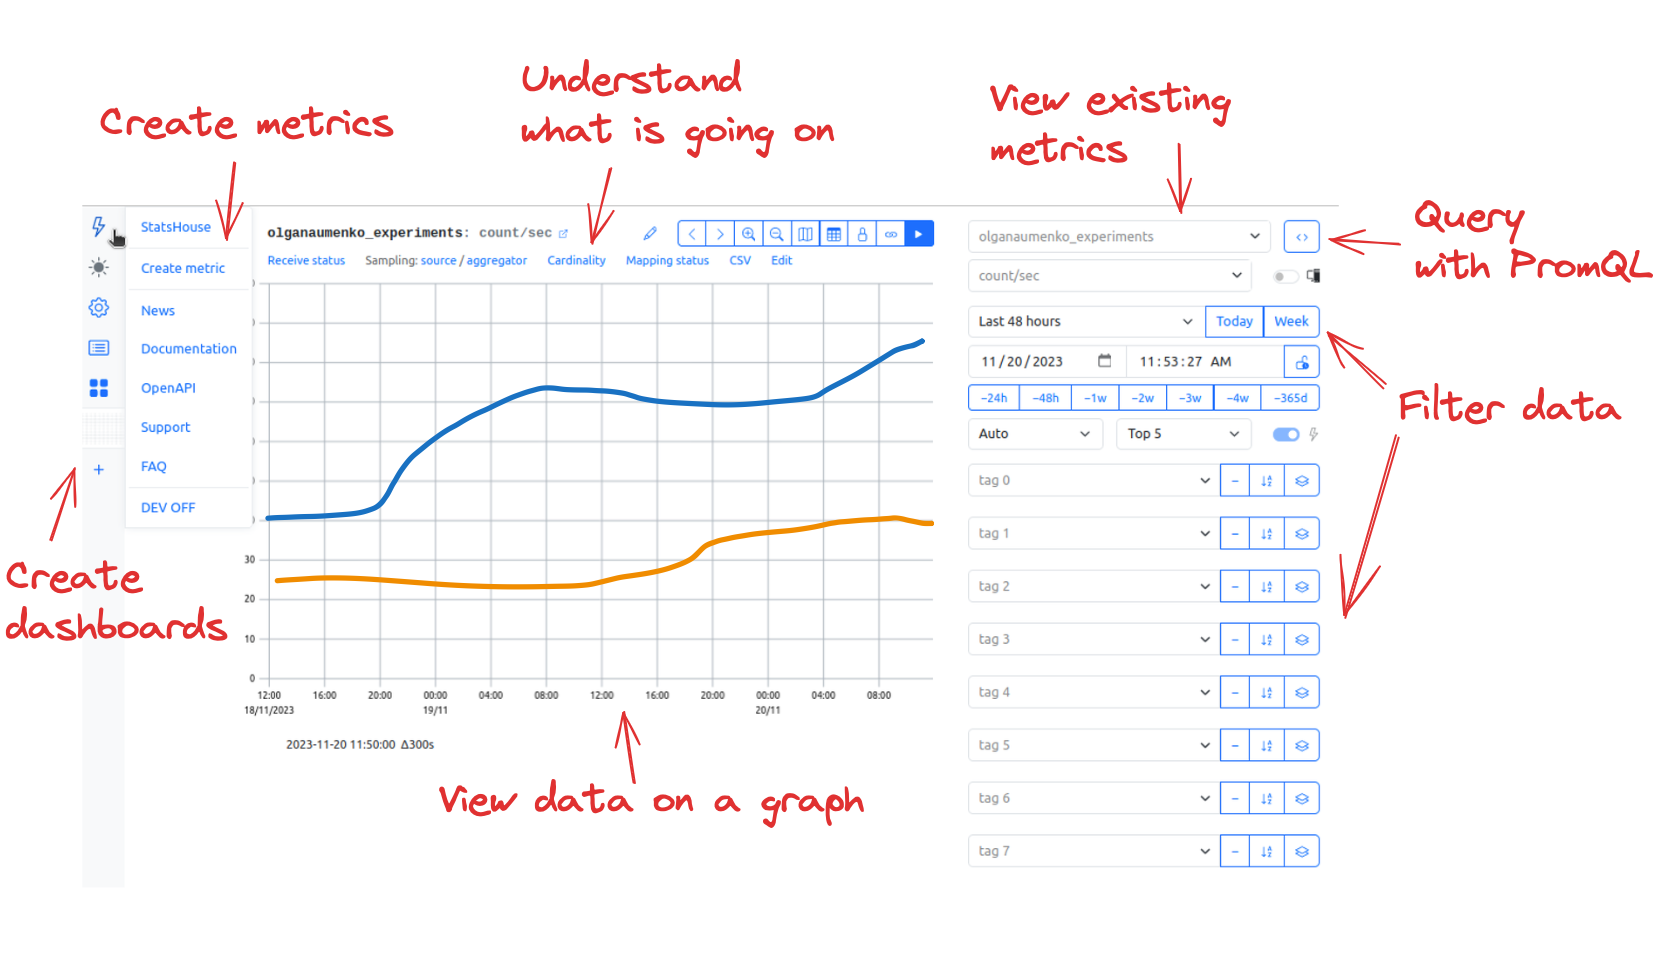
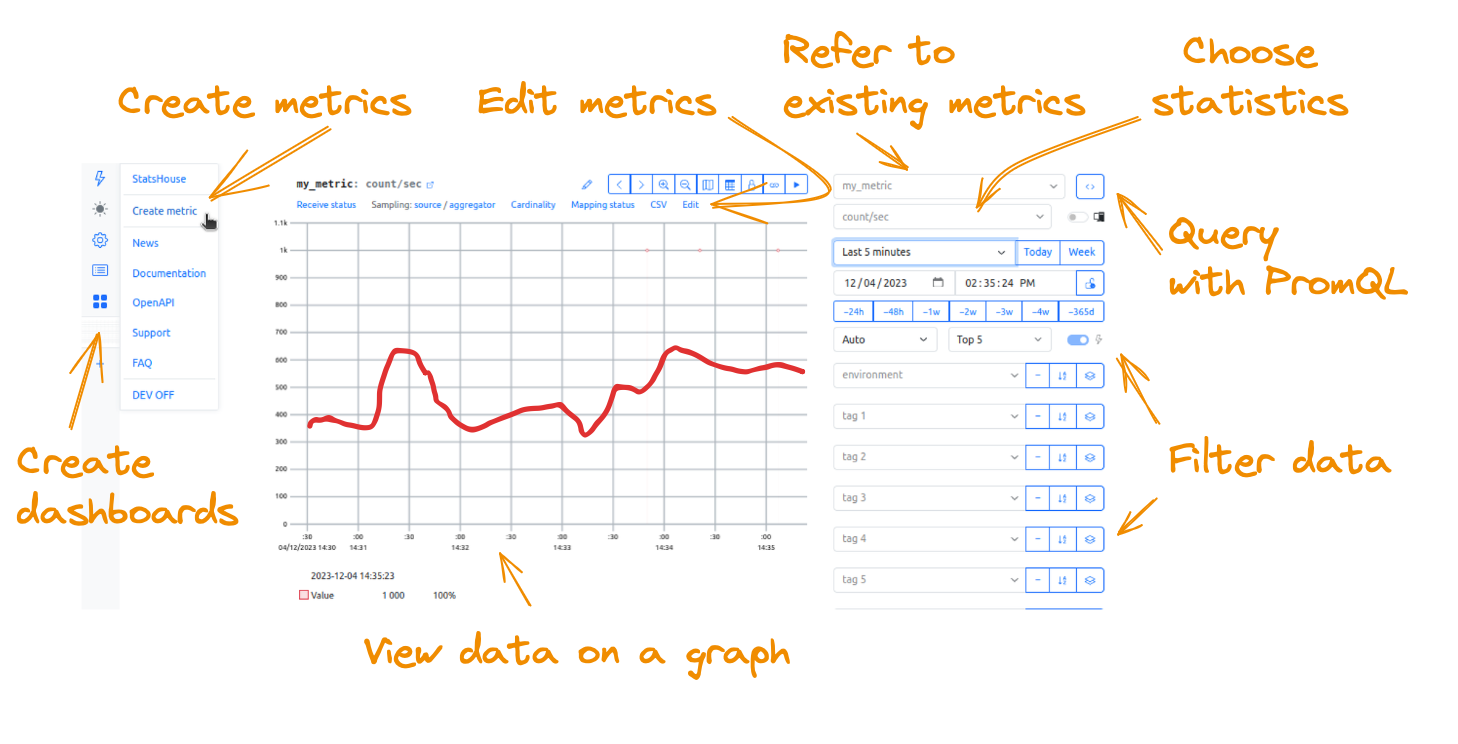
Added 'What is SH' section

diff --git a/website/docusaurus.config.js b/website/docusaurus.config.js
@@ -16,7 +16,7 @@ const config = {
   url: 'https://github.com',
   // Set the /<baseUrl>/ pathname under which your site is served
   // For GitHub pages deployment, it is often '/<projectName>/'
-  baseUrl: '/statshouse/',
+  baseUrl: '/statshouse',
 
   // GitHub pages deployment config.
   // If you aren't using GitHub pages, you don't need these.
@@ -75,18 +75,18 @@ const config = {
       // Replace with your project's social card
       image: 'img/docusaurus-social-card.jpg',
       navbar: {
-        title: 'StatsHouse',
+        title: 'StatsHouse Docs',
         logo: {
           alt: 'StatsHouse Logo',
-          src: 'img/statshouse.jpeg',
+          src: '/img/statshouse.jpeg',
         },
         items: [
-          {
-            type: 'docSidebar',
-            sidebarId: 'tutorialSidebar',
-            position: 'left',
-            label: 'Documentation',
-          },
+//          {
+//            type: 'docSidebar',
+//            sidebarId: 'tutorialSidebar',
+//            position: 'left',
+//            label: 'Documentation',
+//          },
 //          {to: '/blog', label: 'Blog', position: 'left'},
           {
             href: 'https://github.com/VKCOM/statshouse',

diff --git a/website/docs/quick-start.md b/website/docs/quick-start.md
@@ -1,0 +1,94 @@
+---
+sidebar_position: 3
+---
+
+import CreateMetric from './img/create-metric.png'
+import MyMetric from './img/quick-start-name-metric.png'
+import ViewMetric from './img/quick-start-view.png'
+
+# Quick start
+
+See how StatsHouse works in 5 minutes:
+
+<!-- TOC -->
+* [Get access to StatsHouse](#get-access-to-statshouse)
+* [Create a metric](#create-a-metric)
+* [Send metric data](#send-metric-data)
+* [View your metric on a dashboard](#view-your-metric-on-a-dashboard)
+<!-- TOC -->
+
+Then spend ten minutes more and [understand basic UI options](#understand-basic-ui-options).
+
+## Get access to StatsHouse
+
+Visit a StatsHouse cluster deployed in your organization, or [run StatsHouse locally](#how-to-run-statshouse-locally).
+
+### How to run StatsHouse locally
+
+:::warning
+Make sure you have [Docker](https://docs.docker.com/get-docker/) installed.
+:::
+
+Clone the StatsHouse repository, go to the StatsHouse directory, and run a local StatsHouse instance:
+```shell
+git clone https://github.com/VKCOM/statshouse
+cd statshouse
+./localrun.sh
+```
+
+The StatsHouse UI opens once it is ready.
+
+## Create a metric
+
+1. Go to the main **⚡** menu in the upper-left corner and select **Create metric**:
+
+<img src={CreateMetric} width="300"/>
+
+2. Name your metric:
+
+<img src={MyMetric} width="600"/>
+
+## Send metric data
+
+For this toy example, use a simple `bash` script:
+```bash
+echo '{"metrics":[{"name":"my_metric","tags":{},"counter":1000}]}' | nc -q 1 -u 127.0.0.1 13337
+```
+
+## View your metric on a dashboard
+
+View the metric on the StatsHouse dashboard at 
+[localhost:10888](http://localhost:10888/view?live=1&f=-300&t=0&tn=-1&s=example_response_time&t1.s=example_response_time&t1.qw=avg&t2.s=example_runtime_memory&t2.qw=avg&t2.qb=key1).
+
+In this example, we sent the same metric data three times:
+
+<img src={ViewMetric} width="900"/>
+
+## Understand basic UI options
+
+These are UI elements that help you to perform the most typical metric-related tasks. 
+
+Statistics
+- Функции и что они означают (count, value, max_host)
+
+- Выбор разрешения а особенно что за auto/ auto low такой
+- у кого-то ломается мозг когда жмет today и график становится пустой
+- Top - удивительно но даже это не всем понятно
+- Тэги
+- Promql мод
++
+отдельное описание edit секции
+
+
+
+:::info
+To try out full StatsHouse features, refer to the [How-to guides](category/guides).
+:::
+
+
+
+
+
+
+
+

diff --git a/website/docs/guides/create-metric.md b/website/docs/guides/create-metric.md
@@ -5,7 +5,7 @@ description: Learn how to create a metric via the StatsHouse UI.
 import CreateMetric from '../img/create-metric.png'
 import NameMetric from '../img/name-new-metric.png'
 
-# Create a metric
+# Create metrics
 
 [Check the typical questions](#frequent-questions) 
 and [create a metric via the StatsHouse UI](#how-to-create-a-metric-in-the-ui).
@@ -31,12 +31,12 @@ Otherwise, you will not be able to see it.
 
 No. You cannot automate creating metrics: the data you send should be properly formatted. Also, there are limits to 
 creating metrics related to the StatsHouse mapping mechanism. 
-See more about [mapping and budgets for creating metrics](../conceptual-overview/draft.md).
+See more about [mapping and budgets for creating metrics](../conceptual-overview.md).
 
 > "How many metrics can I create?"
  
 In most cases, you should not worry about limits if you create metrics manually via the UI. If you are not sure, see 
-more about [mapping and budgets for creating metrics](../conceptual-overview/draft.md).
+more about [mapping and budgets for creating metrics](../conceptual-overview.md).
 
 > "What if I send too much data? Can I overload StatsHouse or spoil other metrics?"
 
@@ -51,7 +51,7 @@ resulting data, refer to the [conceptual overview].
 
 > "Can I delete a metric?"
 
-No, but you can disable it. See [how to disable or enable a metric](configure-metric.md#disabling-a-metric).
+No, but you can disable it. See [how to disable or enable a metric](edit-metrics.md#disabling-a-metric).
 
 ## How to create a metric in the UI
 
@@ -68,8 +68,8 @@ specifications to name them consistently:
 
 <img src={NameMetric} width="600"/>
 
-As soon as your metric has a name, you should understand the [metric type](configure-metric.md#metric-type) and specify it in 
+As soon as your metric has a name, you should understand the [metric type](edit-metrics.md#metric-type) and specify it in 
 your sending requests. 
-Then, you can [configure](configure-metric.md) more parameters for your metric, or start [sending data](send-data.md) 
+Then, you can [configure](edit-metrics.md) more parameters for your metric, or start [sending data](send-data.md) 
 right away.
 

diff --git a/website/docs/introduction.md b/website/docs/introduction.md
@@ -1,20 +1,62 @@
 ---
+slug: /
 sidebar_position: 1
 ---
 
+import Intro from './img/intro.png'
+import WhatIsSh from './img/what-is-sh.png'
+
 # What is StatsHouse?
 
-StatsHouse is a highly available, scalable, multi-tenant monitoring system.
+StatsHouse is a monitoring system that is highly available, scalable, and multi-tenant.
+Read more about its [features](#features).
 
-![User interface overview](./img/intro.png)
+It allows your applications to send metric data without limitations, so you can view statistics on a graph in a live mode.
 
+<img src={WhatIsSh} width="1000"/>
 
-## Highly available
-## Scalable
-## Multi-tenant
+## What you can do with StatsHouse
 
+Here is what the StatsHouse user interface looks like and what it basically allows you to do:
 
+<img src={Intro} width="900"/>
 
+## How to use StatsHouse
+
+Check the links below to get the most out of StatsHouse.
+
+### Try StatsHouse basics
+
+Walk through the two-minute [**Quick start**](quick-start.md) guide:
+* create your own metric with minimal configuration,
+* send data,
+* and view it on a graph.
+
+Then spend ten minutes more and [understand basic UI options](quick-start.md#understand-basic-ui-options).
+
+### Find the guide for your task
+
+Check the detailed [**How-to guides**](category/how-to) to perform popular tasks:
+
+* [Access a StatsHouse cluster](guides/access-cluster.md)
+* [Create metrics](guides/create-metric.md)
+* [Send metric data](guides/send-data.md)
+* [Edit metrics](guides/edit-metrics.md)
+* [Filter data](guides/filter-data.md)
+* [View data on a graph](guides/view-graph.md)
+* [Refer to existing metrics](guides/refer-to-existing-metrics.md)
+* [Create dashboards](guides/dashboards.md)
+* [Query with PromQL](guides/query-wth-promql.md)
+
+### Dive into details
+
+Refer to [**conceptual overview**](conceptual-overview.md) to handle complicated monitoring tasks and to understand 
+StatsHouse implementation details.
+
+### Check FAQs
+
+Find answers to [**frequently asked questions**](faq.md).
 
 ## Features
+
 

diff --git a/website/docs/guides/send-data.md b/website/docs/guides/send-data.md
@@ -3,7 +3,7 @@ sidebar_position: 5
 description: TEST
 ---
 
-# Send data from your code
+# Send metric data
 
 :::important
 Before sending data to a metric, you have to create a metric manually via the StatsHouse UI.
@@ -29,7 +29,7 @@ https://github.com/VKCOM/statshouse-py/blob/master/src/statshouse/_statshouse.py
 
 На плюсах все непонятно
 
-как сделано на джаве - Женя
+как сделано на джаве
 
 
 

diff --git a/website/docs/guides/edit-metrics.md b/website/docs/guides/edit-metrics.md
@@ -5,7 +5,7 @@ description: Get to know how to set up metric types, tags, resolution, and more.
 
 import MetricTypes from '../img/metric-types.png'
 
-# Configure your metric
+# Edit metrics
 
 
 You have just created a metric—it now has a name and nothing more.

diff --git a/website/docs/guides/view-graph.md b/website/docs/guides/view-graph.md
@@ -3,7 +3,7 @@ sidebar_position: 6
 description: TEST
 ---
 
-# View a metric on a graph
+# View data on a graph
 
 
 Что делать, если мои метрики пропали/просели?

diff --git a/website/docs/guides/dashboards.md b/website/docs/guides/dashboards.md
@@ -3,7 +3,7 @@ sidebar_position: 7
 description: TEST
 ---
 
-# Monitor with dashboards
+# Create dashboards
 
 
 copy links to dashboards

diff --git a/website/docs/conceptual-overview.md b/website/docs/conceptual-overview.md
@@ -1,8 +1,8 @@
 ---
-sidebar_position: 1
+sidebar_position: 5
 ---
 
-# Draft
+# Conceptual overview
 
 
 ## Metriсs

diff --git a/website/docs/guides/filter-data.md b/website/docs/guides/filter-data.md
@@ -1,0 +1,7 @@
+---
+sidebar_position: 3
+description: Get to know how to find data you need.
+---
+
+# Filter data
+
